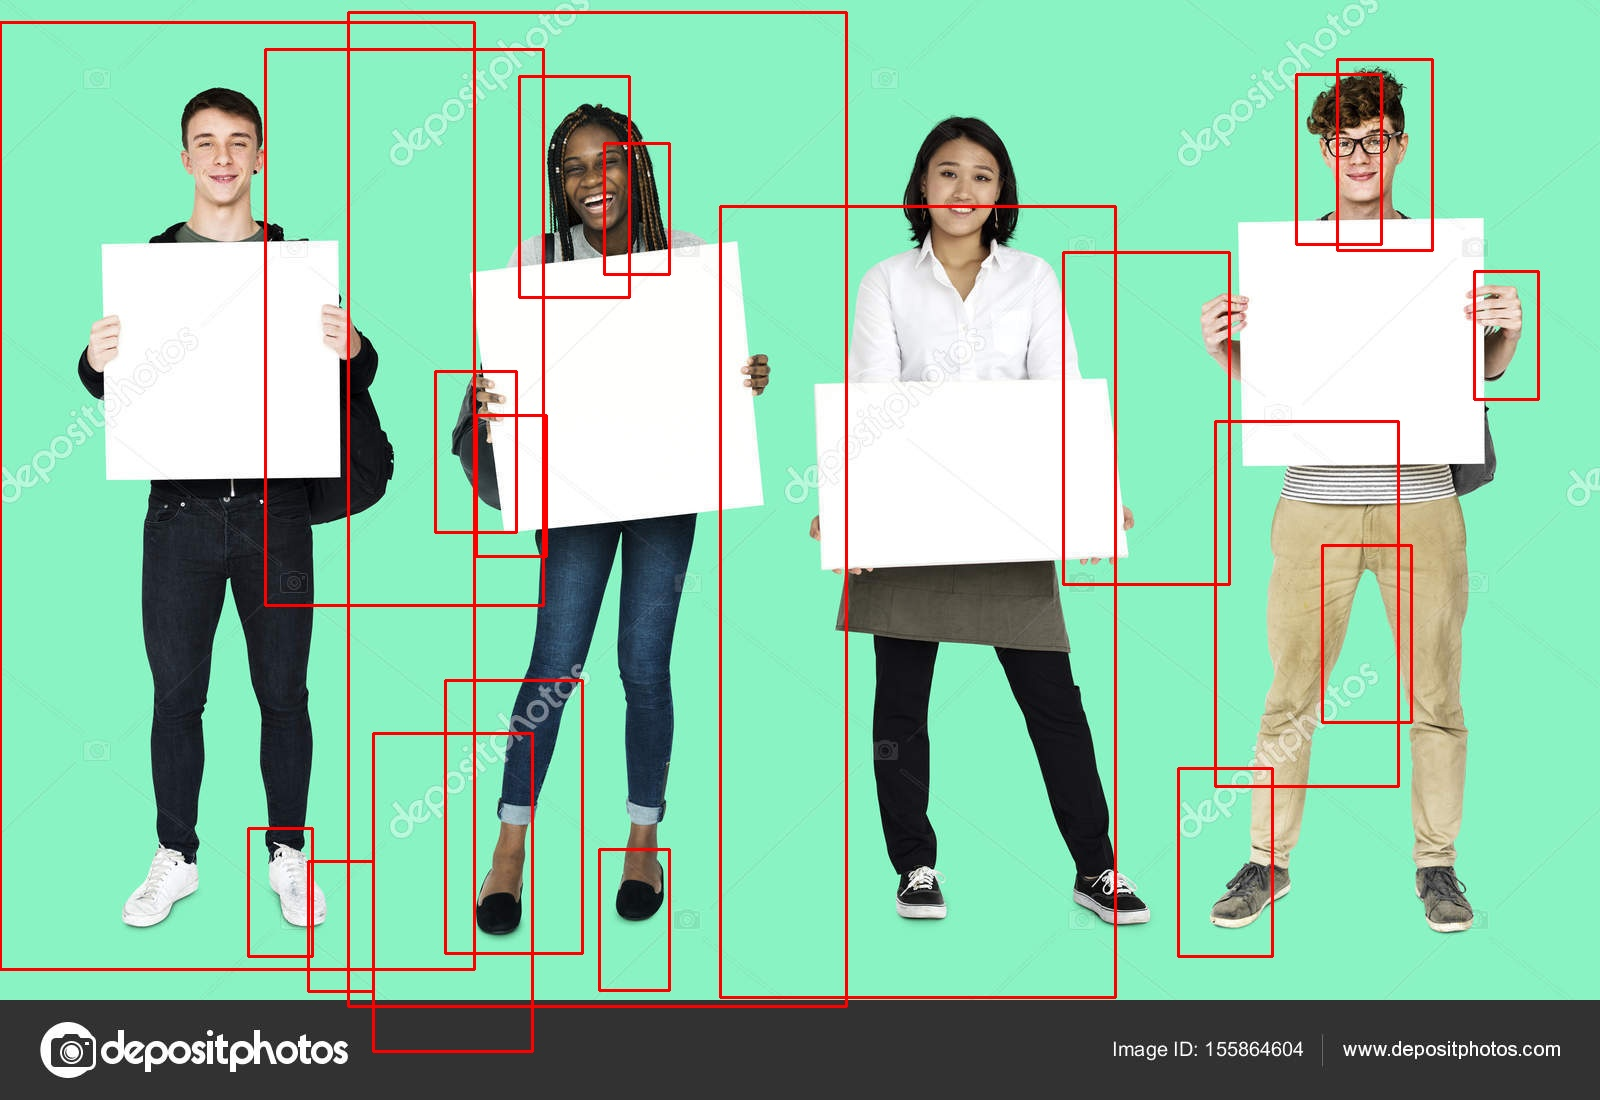
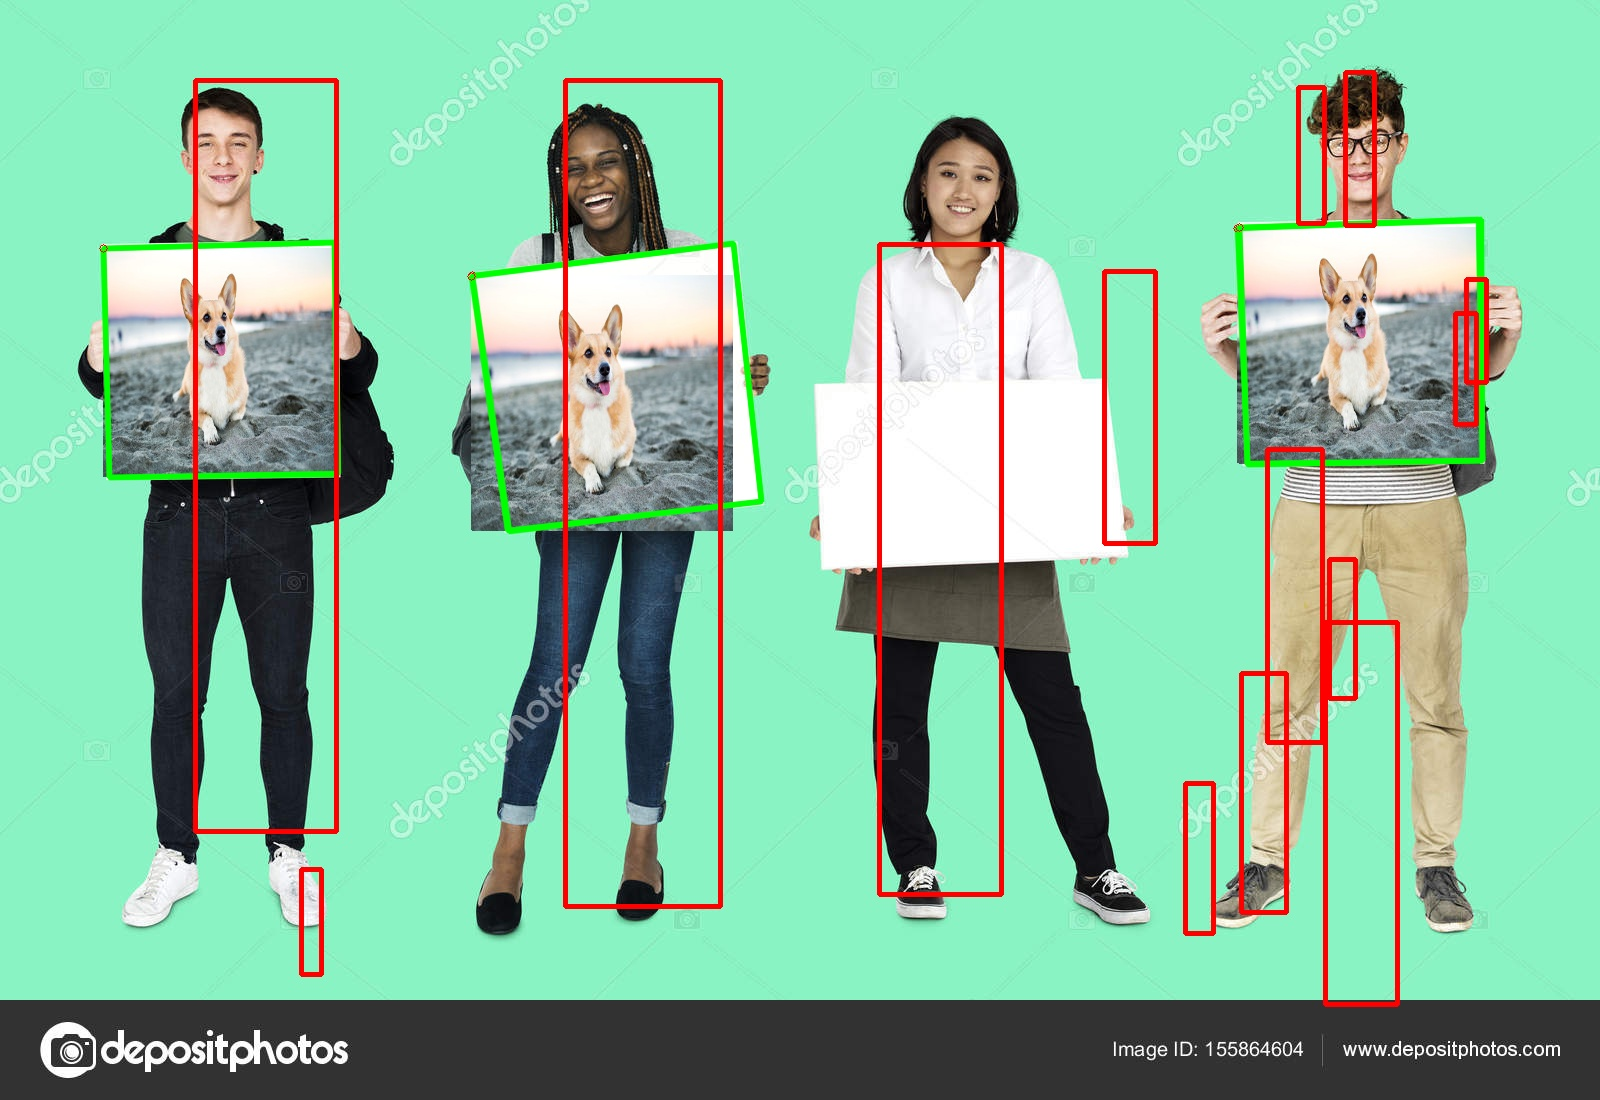
Temporary rectangle modification until Non Maximum Suppression is implemented

Changed region(s): [[0.0, 0.0, 0.9688, 0.9582]]

diff --git a/487Project/PeopleDetector.cpp b/487Project/PeopleDetector.cpp
@@ -9,15 +9,42 @@ PeopleDetector::PeopleDetector(Mat newImg)
 void PeopleDetector::detectPeople()
 {
     // Detect in image
-    hog.detectMultiScale(img, detections, 0, Size(3, 3), Size(), 1.1, 2);
+    hog.detectMultiScale(img, detections, 0, Size(3, 3), Size(), 1.05, 2, false);
+
+    // Eliminate overlapping rectangles
+    int i, j;
+    for (i = 0; i < detections.size(); i++)
+    {
+        Rect r = detections[i];
+        for (j = 0; j < detections.size(); j++) 
+        {
+            if (j != i) {
+                Rect iRect = r;
+                Rect jRect = detections[j];
+                Rect intersectRect = (iRect & jRect);
+                if (intersectRect.area() >= iRect.area() * 0.9) break;
+            }
+        }
+        if (j == detections.size())
+            detections_filtered.push_back(r);
+    }
+
+
 }
 
 void PeopleDetector::displayPeople()
 {
-    // Draw boxes around detections
-    for (auto& detection : detections)
+    // Slightly shrink height of rectangles and draw
+    for (int i = 0; i < detections_filtered.size(); i++)
     {
-        rectangle(img, detection.tl(), detection.br(), Scalar(0, 0, 255), 2);
+        Rect r = detections_filtered[i];
+
+        r.x += cvRound(r.width * 0.5);
+        r.x += -40;
+        r.width = cvRound(r.width * 0.3);
+        r.y += cvRound(r.height * 0.07);
+        r.height = cvRound(r.height * 0.8);
+        rectangle(img, r.tl(), r.br(), cv::Scalar(0, 0, 255), 3);
     }
 
     // Display detections

diff --git a/487Project/PeopleDetector.h b/487Project/PeopleDetector.h
@@ -13,6 +13,7 @@ class PeopleDetector
 private:
     HOGDescriptor hog;
     vector<Rect> detections;
+    vector<Rect> detections_filtered;
     Mat img;
 
 public:
